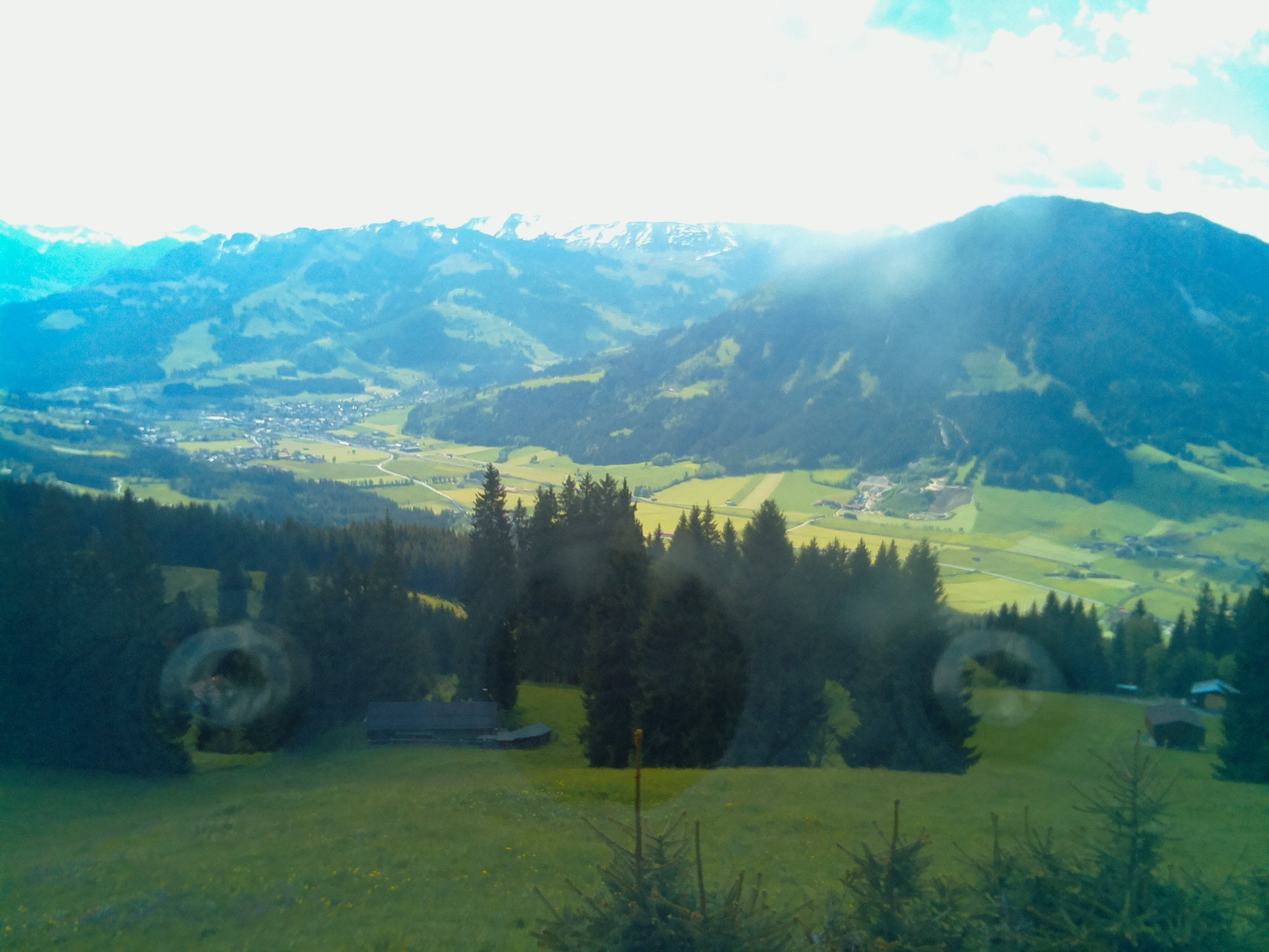
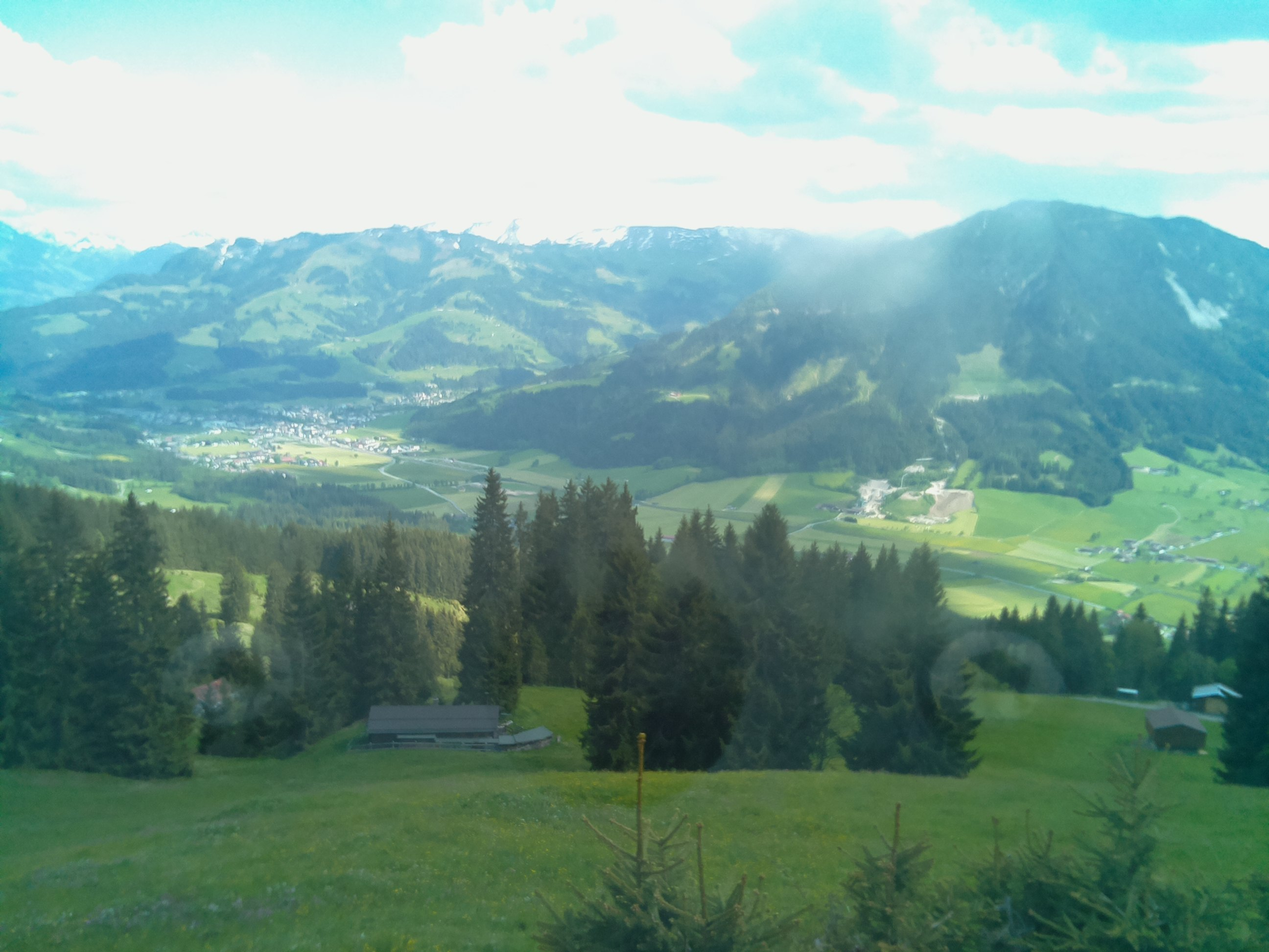
I'm a bot beep boop

diff --git a/resources/huette.md b/resources/huette.md
@@ -6,13 +6,13 @@ image: '/assets/img/'
 description: 'Live image from the Austrian alps'
 twitter_text: ' '
 ---
-## Latest image from 02 June 2021 at 10:12
+## Latest image from 02 June 2021 at 16:12
 <div class="huette">
   <div class="huette-image">
     <img src="{{ "/assets/img/huette.jpg" | prepend: site.baseurl }}">
   </div>
   <div class="huette-text">
-        <h2>Current Temperature: 16.625°C</h2>
+        <h2>Current Temperature: 19.375°C</h2>
         <p>A solar powered raspberry pi left alone in the wild is sending daily images and temperature data to this website. It should give you an impression about the current weather in the "Brixental".</p>
 
   </div>

diff --git a/rpi-script/huette.md b/rpi-script/huette.md
@@ -6,13 +6,13 @@ image: '/assets/img/'
 description: 'Live image from the Austrian alps'
 twitter_text: ' '
 ---
-## Latest image from 02 June 2021 at 10:12
+## Latest image from 02 June 2021 at 16:12
 <div class="huette">
   <div class="huette-image">
     <img src="{{ "/assets/img/huette.jpg" | prepend: site.baseurl }}">
   </div>
   <div class="huette-text">
-        <h2>Current Temperature: 16.625°C</h2>
+        <h2>Current Temperature: 19.375°C</h2>
         <p>A solar powered raspberry pi left alone in the wild is sending daily images and temperature data to this website. It should give you an impression about the current weather in the "Brixental".</p>
 
   </div>
